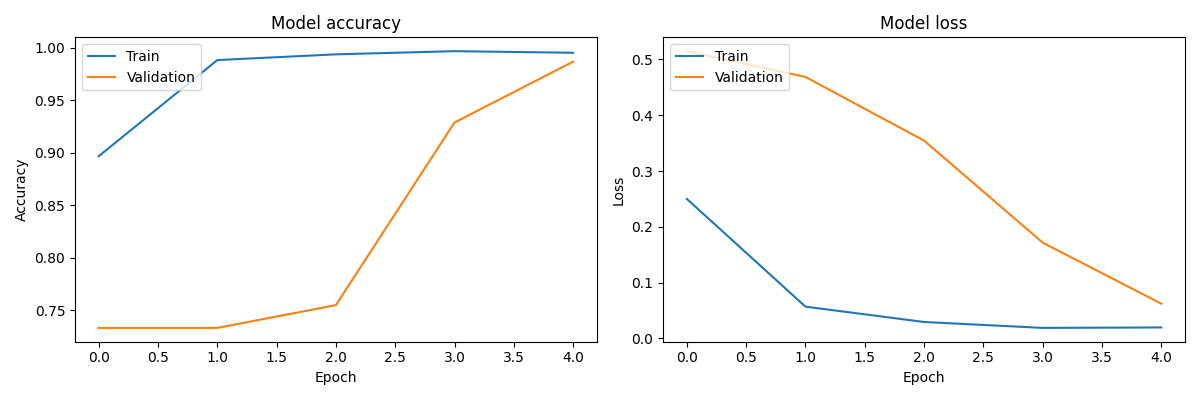
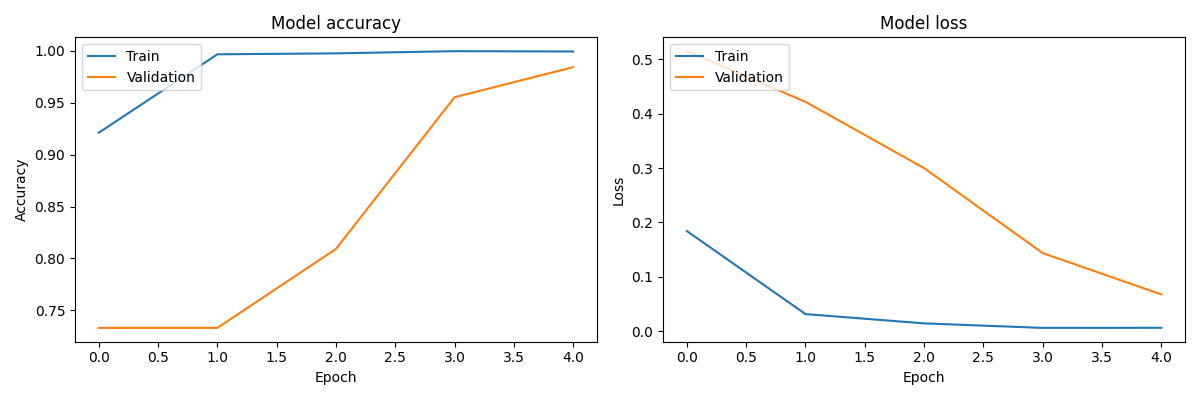
last

diff --git a/train_model.py b/train_model.py
@@ -34,8 +34,6 @@ def classify_emails(emails):
 
     try:
         import numpy as np
-
-
         model, vectorizer = db_retrieve.get_model(conn)
 
         if model is None or vectorizer is None:
@@ -74,6 +72,7 @@ def main():
 
 
     df = pd.read_csv("spam_ham_dataset.csv")
+    #Term Frequency - Inverse Document Frequency
     tfidf_vectorizer = TfidfVectorizer(
         max_features=9000,
         min_df=3,
@@ -92,10 +91,9 @@ def main():
     model = Sequential([
         Dense(64, activation='relu', input_shape=(X_train.shape[1],)),
         BatchNormalization(),
-        Dropout(0.3),
+
         Dense(32, activation='relu'),
         BatchNormalization(),
-        Dropout(0.2),
         Dense(1, activation='sigmoid')
     ])
 
@@ -105,23 +103,10 @@ def main():
         metrics=['accuracy']
     )
 
-
-    early_stopping = EarlyStopping(
-        monitor='val_loss',
-        patience=5,
-        restore_best_weights=True
-    )
-
-    reduce_lr = ReduceLROnPlateau(
-        monitor='val_loss',
-        factor=0.2,
-        patience=3,
-        min_lr=0.00001
-    )
-
     class_weights = {
         0: (1 / (y_train == 0).sum()) * (len(y_train) / 2),
         1: (1 / (y_train == 1).sum()) * (len(y_train) / 2)
+
     }
 
     history = model.fit(
@@ -129,7 +114,6 @@ def main():
         epochs=5,
         batch_size=32,
         validation_split=0.2,
-        callbacks=[early_stopping, reduce_lr],
         class_weight=class_weights,
         verbose=1
     )

diff --git a/trained_model.py b/trained_model.py
@@ -1,35 +1,7 @@
 from db import db_connection
 from db import db_retrieve
+from train_model import classify_emails
 
-def classify_emails(emails):
-
-    conn = db_connection.get_connection()
-
-    try:
-        import numpy as np
-        model, vectorizer = db_retrieve.get_model(conn)
-
-        email_vectors = vectorizer.transform(emails).toarray()
-        predictions = model.predict(email_vectors)
-        print("predictions:", predictions)
-        results = (predictions > 0.5).astype(int)
-
-        classified_emails = []
-        for email, pred, raw_pred in zip(emails, results, predictions):
-            label = "SPAM" if pred[0] == 1 else "HAM"
-            confidence = float(raw_pred[0]) if pred[0] == 1 else 1 - float(raw_pred[0])
-            classified_emails.append({
-                "email": email[:50] + "..." if len(email) > 50 else email,
-                "classification": label,
-                "confidence": f"{confidence:.2%}"
-            })
-
-        return classified_emails
-
-    except Exception as e:
-        return f"Error classifying emails: {str(e)}"
-    finally:
-        conn.close()
 
 
 if __name__ == "__main__":

diff --git a/db/db_store.py b/db/db_store.py
@@ -2,7 +2,7 @@ import psycopg2
 from psycopg2 import Binary
 from utils.db_utils import model_to_binary, vectorizer_to_binary
 
-def store_model(conn, model, vectorizer, model_name="spam_detector_v1"):
+def store_model(conn, model, vectorizer):
 
     try:
         cursor = conn.cursor()
@@ -10,8 +10,8 @@ def store_model(conn, model, vectorizer, model_name="spam_detector_v1"):
         vectorizer_binary = Binary(vectorizer_to_binary(vectorizer))
 
         cursor.execute(
-            "INSERT INTO spam_model (model_name, model_weights, vectorizer) VALUES (%s, %s, %s) RETURNING id",
-            (model_name, model_binary, vectorizer_binary)
+            "INSERT INTO spam ( model_weights, vectorizer) VALUES (%s, %s)",
+            (model_binary, vectorizer_binary)
         )
 
         conn.commit()

diff --git a/db/db_retrieve.py b/db/db_retrieve.py
@@ -1,14 +1,11 @@
 from utils.db_utils import binary_to_model, binary_to_vectorizer
 
 
-def get_model(conn, model_name="spam_detector_v1"):
+def get_model(conn):
 
     try:
         cursor = conn.cursor()
-        cursor.execute(
-            "SELECT model_weights, vectorizer FROM spam_model WHERE model_name = %s ORDER BY created_at DESC LIMIT 1",
-            (model_name,)
-        )
+        cursor.execute("SELECT model_weights, vectorizer FROM spam ORDER BY created_at DESC LIMIT 1")
 
         result = cursor.fetchone()
         if result is None:

diff --git a/utils/db_utils.py b/utils/db_utils.py
@@ -6,6 +6,7 @@ import os
 
 def model_to_binary(model):
     with tempfile.TemporaryDirectory() as temp_dir:
+
         temp_model_path = os.path.join(temp_dir, "model.h5")
         model.save(temp_model_path)
 
